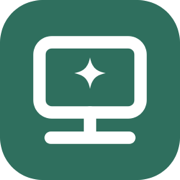
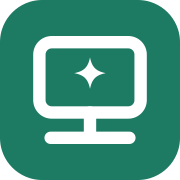
Fresher colours and a Light / Dark / Auto switch in the sidebar
Cleaner greys and a crisper teal (icons updated to match). Dark mode still
follows the computer by default; the choice is kept in the browser and
applied before the page paints, so it never flashes.

diff --git a/web/app/globals.css b/web/app/globals.css
@@ -1,31 +1,49 @@
 @import "tailwindcss";
 
+/* Colours. Light is the default; dark follows the computer's setting unless the
+   owner picks one in the sidebar (data-theme on <html>, see lib/theme.ts). */
 :root {
-  --background: #f7f7f5;
+  color-scheme: light;
+  --background: #f5f6f7;
   --surface: #ffffff;
-  --foreground: #1a1a19;
-  --muted: #6b6b66;
-  --border: #e4e4df;
-  --accent: #2f6f5e;
+  --foreground: #15181b;
+  --muted: #62686f;
+  --border: #e2e5e8;
+  --accent: #1d7a63;
   --accent-foreground: #ffffff;
-  --danger: #b4372e;
-  --ok: #2f7d4f;
-  --warn: #a8691a;
+  --danger: #c2372d;
+  --ok: #23824f;
+  --warn: #a8640f;
 }
 
 @media (prefers-color-scheme: dark) {
-  :root {
-    --background: #121211;
-    --surface: #1c1c1a;
-    --foreground: #ececE8;
-    --muted: #9a9a93;
-    --border: #2e2e2b;
-    --accent: #5fb49c;
-    --accent-foreground: #0e1a16;
-    --danger: #e0645a;
-    --ok: #5cbf83;
-    --warn: #e0a24f;
+  :root:not([data-theme="light"]) {
+    color-scheme: dark;
+    --background: #0e1113;
+    --surface: #171b1e;
+    --foreground: #e7eaec;
+    --muted: #949ba2;
+    --border: #272c30;
+    --accent: #4cc3a2;
+    --accent-foreground: #08201a;
+    --danger: #f06a5f;
+    --ok: #55c98a;
+    --warn: #eba650;
   }
+}
+
+:root[data-theme="dark"] {
+  color-scheme: dark;
+  --background: #0e1113;
+  --surface: #171b1e;
+  --foreground: #e7eaec;
+  --muted: #949ba2;
+  --border: #272c30;
+  --accent: #4cc3a2;
+  --accent-foreground: #08201a;
+  --danger: #f06a5f;
+  --ok: #55c98a;
+  --warn: #eba650;
 }
 
 @theme inline {

diff --git a/web/lib/theme.ts b/web/lib/theme.ts
@@ -1,0 +1,36 @@
+// The owner's light/dark choice, kept in this browser. "auto" follows the computer.
+export type Theme = "auto" | "light" | "dark";
+
+const KEY = "shortdesk-theme";
+const listeners = new Set<() => void>();
+
+export function getTheme(): Theme {
+  try {
+    const t = localStorage.getItem(KEY);
+    return t === "light" || t === "dark" ? t : "auto";
+  } catch {
+    return "auto";
+  }
+}
+
+export function setTheme(t: Theme) {
+  try {
+    if (t === "auto") localStorage.removeItem(KEY);
+    else localStorage.setItem(KEY, t);
+  } catch {}
+  applyTheme(t);
+  listeners.forEach((l) => l());
+}
+
+export function subscribeTheme(l: () => void) {
+  listeners.add(l);
+  return () => listeners.delete(l);
+}
+
+function applyTheme(t: Theme) {
+  if (t === "auto") delete document.documentElement.dataset.theme;
+  else document.documentElement.dataset.theme = t;
+}
+
+// Runs before the page paints (see app/layout.tsx), so a saved choice never flashes.
+export const themeScript = `try{var t=localStorage.getItem("${KEY}");if(t==="light"||t==="dark")document.documentElement.dataset.theme=t}catch(e){}`;

diff --git a/web/components/theme-switch.tsx b/web/components/theme-switch.tsx
@@ -1,0 +1,31 @@
+"use client";
+
+import { useSyncExternalStore } from "react";
+import { getTheme, setTheme, subscribeTheme, type Theme } from "@/lib/theme";
+
+const options: { value: Theme; label: string }[] = [
+  { value: "auto", label: "Auto" },
+  { value: "light", label: "Light" },
+  { value: "dark", label: "Dark" },
+];
+
+export function ThemeSwitch() {
+  const theme = useSyncExternalStore(subscribeTheme, getTheme, () => "auto" as Theme);
+  return (
+    <div role="radiogroup" aria-label="Colour theme" className="flex rounded-md border border-border p-0.5 text-xs">
+      {options.map((o) => (
+        <button
+          key={o.value}
+          role="radio"
+          aria-checked={theme === o.value}
+          onClick={() => setTheme(o.value)}
+          className={`flex-1 rounded px-2 py-1 font-medium transition ${
+            theme === o.value ? "bg-background text-foreground shadow-sm" : "text-muted hover:text-foreground"
+          }`}
+        >
+          {o.label}
+        </button>
+      ))}
+    </div>
+  );
+}

diff --git a/web/app/layout.tsx b/web/app/layout.tsx
@@ -1,6 +1,7 @@
 import type { Metadata } from "next";
 import { Geist, Geist_Mono } from "next/font/google";
 import "./globals.css";
+import { themeScript } from "@/lib/theme";
 
 const geistSans = Geist({
   variable: "--font-geist-sans",
@@ -19,7 +20,14 @@ export const metadata: Metadata = {
 
 export default function RootLayout({ children }: LayoutProps<"/">) {
   return (
-    <html lang="en" className={`${geistSans.variable} ${geistMono.variable} h-full antialiased`}>
+    <html
+      lang="en"
+      className={`${geistSans.variable} ${geistMono.variable} h-full antialiased`}
+      suppressHydrationWarning
+    >
+      <head>
+        <script dangerouslySetInnerHTML={{ __html: themeScript }} />
+      </head>
       <body className="flex min-h-full flex-col font-sans">{children}</body>
     </html>
   );

diff --git a/web/components/sidebar.tsx b/web/components/sidebar.tsx
@@ -4,6 +4,7 @@ import Link from "next/link";
 import { useRouter } from "next/navigation";
 import { api, type Desk } from "@/lib/api";
 import { Logo } from "./logo";
+import { ThemeSwitch } from "./theme-switch";
 import { AgentDot, Button } from "./ui";
 
 export function Sidebar({ desks, selectedId }: { desks: Desk[] | undefined; selectedId: string }) {
@@ -68,6 +69,9 @@ export function Sidebar({ desks, selectedId }: { desks: Desk[] | undefined; sele
         <Button variant="ghost" className="w-full justify-start" onClick={logout}>
           Log out
         </Button>
+        <div className="px-1 pt-1.5">
+          <ThemeSwitch />
+        </div>
       </div>
     </nav>
   );

diff --git a/web/components/first-start-hint.tsx b/web/components/first-start-hint.tsx
@@ -65,7 +65,7 @@ function Step({ n, done, title, children }: { n: number; done: boolean; title: s
       <span
         aria-hidden
         className={`mt-0.5 flex size-5 shrink-0 items-center justify-center rounded-full text-xs font-medium ${
-          done ? "bg-ok text-white" : "border border-border text-muted"
+          done ? "bg-ok text-background" : "border border-border text-muted"
         }`}
       >
         {done ? "✓" : n}

diff --git a/web/components/desktop-panel.tsx b/web/components/desktop-panel.tsx
@@ -55,7 +55,7 @@ export function DesktopPanel({ desk, agent, visible }: Props) {
       )}
 
       {error && (
-        <p className="absolute top-3 left-1/2 -translate-x-1/2 rounded-md bg-danger px-3 py-1.5 text-sm text-white">
+        <p className="absolute top-3 left-1/2 -translate-x-1/2 rounded-md bg-danger px-3 py-1.5 text-sm text-background">
           {error}
         </p>
       )}
